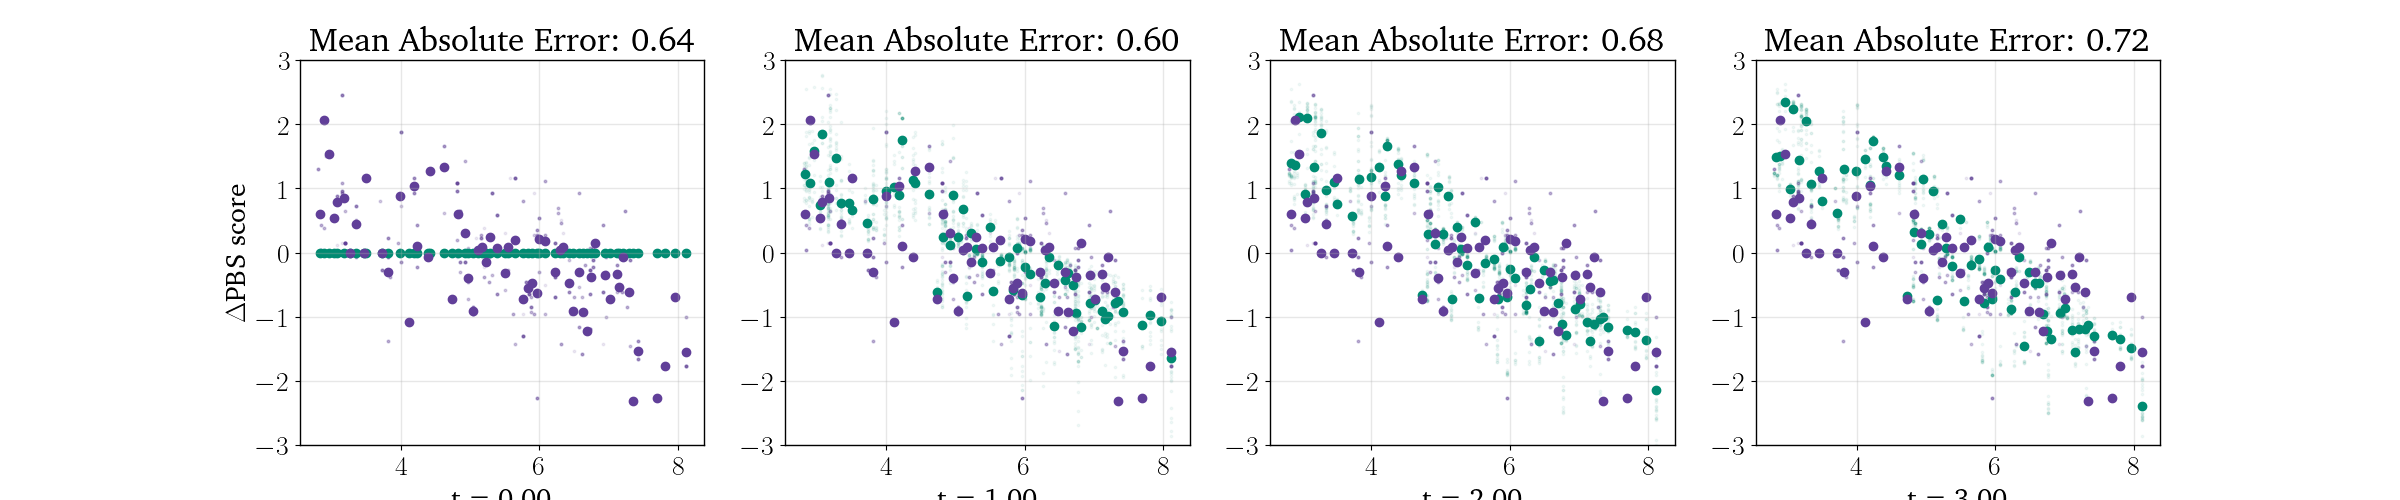
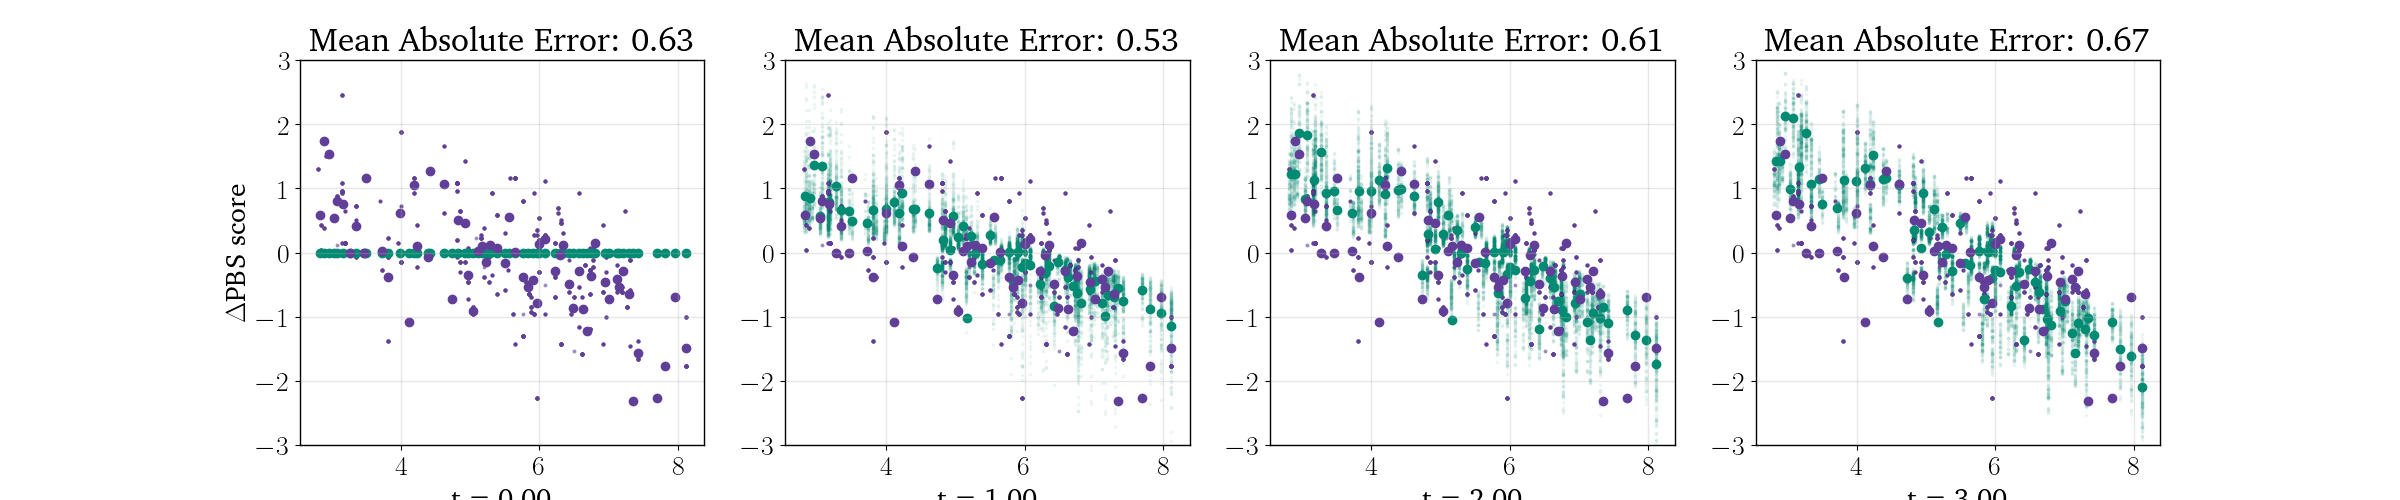
small changes

diff --git a/src/scripts/degroot_analysis.py b/src/scripts/degroot_analysis.py
@@ -120,7 +120,7 @@ def _(np, plt):
 
 
 @app.cell
-def _(compute_proportion, mlines, np, pd, plt):
+def _(compute_proportion, j, mlines, np, pd, plt):
     def plot(df, x, y, ylabel, file_prefix):
         fig, ax = plt.subplots(figsize=(12,8))
 
@@ -189,7 +189,7 @@ def _(compute_proportion, mlines, np, pd, plt):
 
         # ax.add_artist(legend1) 
         plt.tight_layout()
-        plt.savefig(f"figures/{file_prefix}_{ylabel}")
+        j.savefig(f"figures/{file_prefix}_{ylabel}")
         plt.show()
 
     def compute_and_merge_proportions(
@@ -263,10 +263,9 @@ def _(data_control, data_delib):
 
 
 @app.cell
-def _(data_control, data_delib, time_str):
-    data_delib_151 = data_delib.loc[data_delib[time_str] == 151].copy()
-    data_control_151 = data_control.loc[data_control[time_str] == 151].copy()
-    return data_control_151, data_delib_151
+def _(data_delib):
+    data_delib
+    return
 
 
 @app.cell
@@ -345,32 +344,6 @@ def _(compute_and_merge_proportions, compute_average, data_delib, pd, plot):
 
 
 @app.cell(hide_code=True)
-def _(cand_str, data_delib, mo, time_str, voter_str):
-    # Create UI controls
-    voter_dropdown = mo.ui.dropdown(
-        options={str(v): v for v in sorted(data_delib[voter_str].unique())},
-        value="9",
-        label="Number of Voters"
-    )
-
-    cand_dropdown = mo.ui.dropdown(
-        options={str(c): c for c in sorted(data_delib[cand_str].unique())},
-        value="7",
-        label="Number of Candidates"
-    )
-
-    time_dropdown = mo.ui.dropdown(
-        options={str(t): t for t in sorted(data_delib[time_str].unique())},
-        value="1.0",
-        label="Time Value"
-    )
-
-    # Display UI controls
-    controls = mo.hstack([voter_dropdown, cand_dropdown, time_dropdown])
-    return cand_dropdown, controls, time_dropdown, voter_dropdown
-
-
-@app.cell(hide_code=True)
 def _(mo):
     mo.md(
         r"""
@@ -427,59 +400,6 @@ def _(bias_str, plt, summary_control, summary_delib):
     return (plot_summary,)
 
 
-@app.cell
-def _(data_delib, np, pd, time_str):
-    def bin_biases(data):
-        bias_bins = np.linspace(data["bias"].min(), data["bias"].max(), 15)
-        bins_index = np.digitize(data["bias"], bias_bins)
-        data["binned_bias"] = bias_bins[bins_index-1]
-        return data
-
-    def find_min_bias(df, metric_col):
-        # Group by bias and calculate mean of the metric
-        means = df.groupby(['binned_bias', 'knowledge', time_str])[metric_col].mean()
-        # Find the bias value with the minimum mean metric value
-        return means.idxmin() if not means.empty else np.nan
-
-
-    def pivot_of_minimum_values(data, metrics):
-        # Create an empty DataFrame to store results
-        result_df = pd.DataFrame()
-
-        # For each combination of cand_sampler and knowledge
-        for (sampler), group in data.groupby(['cand_sampler']):
-            row_data = {'cand_sampler': sampler}
-
-            # For each metric, find the bias that minimizes it
-            for metric in metrics:
-                min_bias = find_min_bias(group, metric)
-                row_data[f'{metric.replace("_", " ")}'] = min_bias
-
-            # Append to results
-            result_df = pd.concat([result_df, pd.DataFrame([row_data])], ignore_index=True)
-
-        # Set the index for the final table
-        result_df = result_df.set_index(['cand_sampler'])
-
-        # You can reshape it if you want a different format
-        # This puts metrics as columns and shows the optimal bias value
-        return result_df
-
-    m = ['proximity_to_voter_sp_absdiff', 'proximity_to_cand_sp_absdiff', 'total_absdiff']
-
-    def to_tex(df: pd.DataFrame):
-        print(df.to_latex( multicolumn=True))
-
-    to_tex(pivot_of_minimum_values(bin_biases(data_delib), m))
-    return bin_biases, find_min_bias, m, pivot_of_minimum_values, to_tex
-
-
-@app.cell
-def _(bin_biases, data_control, m, pivot_of_minimum_values, to_tex):
-    to_tex(pivot_of_minimum_values(bin_biases(data_control), m))
-    return
-
-
 @app.cell(hide_code=True)
 def _(mo):
     mo.md(
@@ -510,56 +430,36 @@ def _(pd):
 
 @app.cell
 def _(
-    cand_str,
     convergence_data_know,
     convergence_data_know_group,
     convergence_data_simi,
     convergence_data_simi_group,
-    np,
     plt,
-    sampler_str,
+    sim_color,
     time_str,
 ):
     # Begin plotting
-    fig, ax = plt.subplots(3, 4, figsize=(20, 15), sharex=True)
+    fig, ax = plt.subplots(1, 4, figsize=(20, 5), sharex=True)
     ax = ax.ravel()
     for i, convergence_data in enumerate([convergence_data_simi,  convergence_data_know, convergence_data_simi_group,  convergence_data_know_group]):
 
-        grouped_by_cand_and_sampler = convergence_data.groupby([cand_str, sampler_str, time_str]).agg("mean")
-        df_reset = grouped_by_cand_and_sampler.reset_index()
-        df_reset = df_reset.loc[df_reset[time_str] > 1]
-        candidate_counts = sorted(df_reset['n_candidates'].unique())
-        # Unique values for styling
-        sampler_styles = {'Sample': 'X', 'Voter': 's'}
-        colors = plt.cm.viridis_r(np.linspace(0, 1, len(candidate_counts)))
+        grouped_by_cand_and_sampler = convergence_data.loc[convergence_data[time_str] > 1].groupby([time_str]).mean(numeric_only=True)
 
         # Plot each combination
-        for idx, n in enumerate(candidate_counts):
-            for sampler, marker in sampler_styles.items():
-                subset = df_reset[(df_reset['n_candidates'] == n) & (df_reset['cand_sampler'] == sampler)]
-                if not subset.empty:
-                    ax[0+i].plot(subset['time_steps'], subset['ks_distance_true'], 
-                               label=f'{n} candidates, {sampler}', 
-                               marker=marker, color=colors[idx], linestyle='-')
-                    ax[4+i].plot(subset['time_steps'], subset['cs_distance_true'], 
-                               label=f'{n} candidates, {sampler}', 
-                               marker=marker, color=colors[idx], linestyle='-')
-                    ax[8+i].plot(subset['time_steps'], subset['entrywise_distance'], 
-                               label=f'{n} candidates, {sampler}', 
-                               marker=marker, color=colors[idx], linestyle='-')
+        ax[0+i].plot(grouped_by_cand_and_sampler.index, grouped_by_cand_and_sampler['entrywise_distance'], 
+                     linestyle='--', color=sim_color)
+    
     ax[0].set_title('Similarity')
     ax[1].set_title('Knowledge')
-    ax[2].set_title('Original')
-    ax[3].set_title('Knowledge Original Groups')
+    ax[2].set_title('Similarity, Original Groups')
+    ax[3].set_title('Knowledge, Original Groups')
 
     # Labels and titles
-    ax[0].set_ylabel('KS Distance')
-    ax[4].set_ylabel('CS Distance')
-    ax[8].set_ylabel('Entrywise distance')
-    ax[8].set_xlabel('Time Steps')
-    ax[9].set_xlabel('Time Steps')
-    ax[10].set_xlabel('Time Steps')
-    ax[11].set_xlabel('Time Steps')
+    ax[0].set_ylabel('$\ell_1$-norm to Starting Trust')
+    ax[0].set_xlabel('Time Steps')
+    ax[1].set_xlabel('Time Steps')
+    ax[2].set_xlabel('Time Steps')
+    ax[3].set_xlabel('Time Steps')
 
     # Legend
     handles, labels = ax[1].get_legend_handles_labels()
@@ -571,21 +471,12 @@ def _(
     plt.show()
     return (
         ax,
-        candidate_counts,
-        colors,
         convergence_data,
-        df_reset,
         fig,
         grouped_by_cand_and_sampler,
         handles,
         i,
-        idx,
         labels,
-        marker,
-        n,
-        sampler,
-        sampler_styles,
-        subset,
     )
 
 
@@ -698,7 +589,7 @@ def _(
             ax.grid(True)
 
 
-    all_zero_delib = opinion_delib_df.loc[(opinion_delib_df["knowledge"] == 0) &(opinion_delib_df["similarity"] == 0) &(opinion_delib_df["ego"] == 0) & (opinion_delib_df["credibility"] == 1)]
+    all_zero_delib = opinion_delib_df.loc[(opinion_delib_df["selfknowledge"] == 0)]
     # Usage
     figure_opinion, axes = plt.subplots(2, 4, figsize=(20, 10))
     axes = axes.ravel()

diff --git a/src/scripts/election_evals.py b/src/scripts/election_evals.py
@@ -39,11 +39,6 @@ def get_max_num_voters_for_single_peakedness(prof: np.ndarray):
         return int(len(prof)-num_removed)
 
 
-def get_profile_distances(prof: np.ndarray, prof2: np.ndarray):
-    inst = np_to_Ordinal(prof)
-    inst2 = np_to_Ordinal(prof2)
-
-
 if __name__ == "__main__":
     get_max_num_cands_for_single_peakedness(
         np.array([
